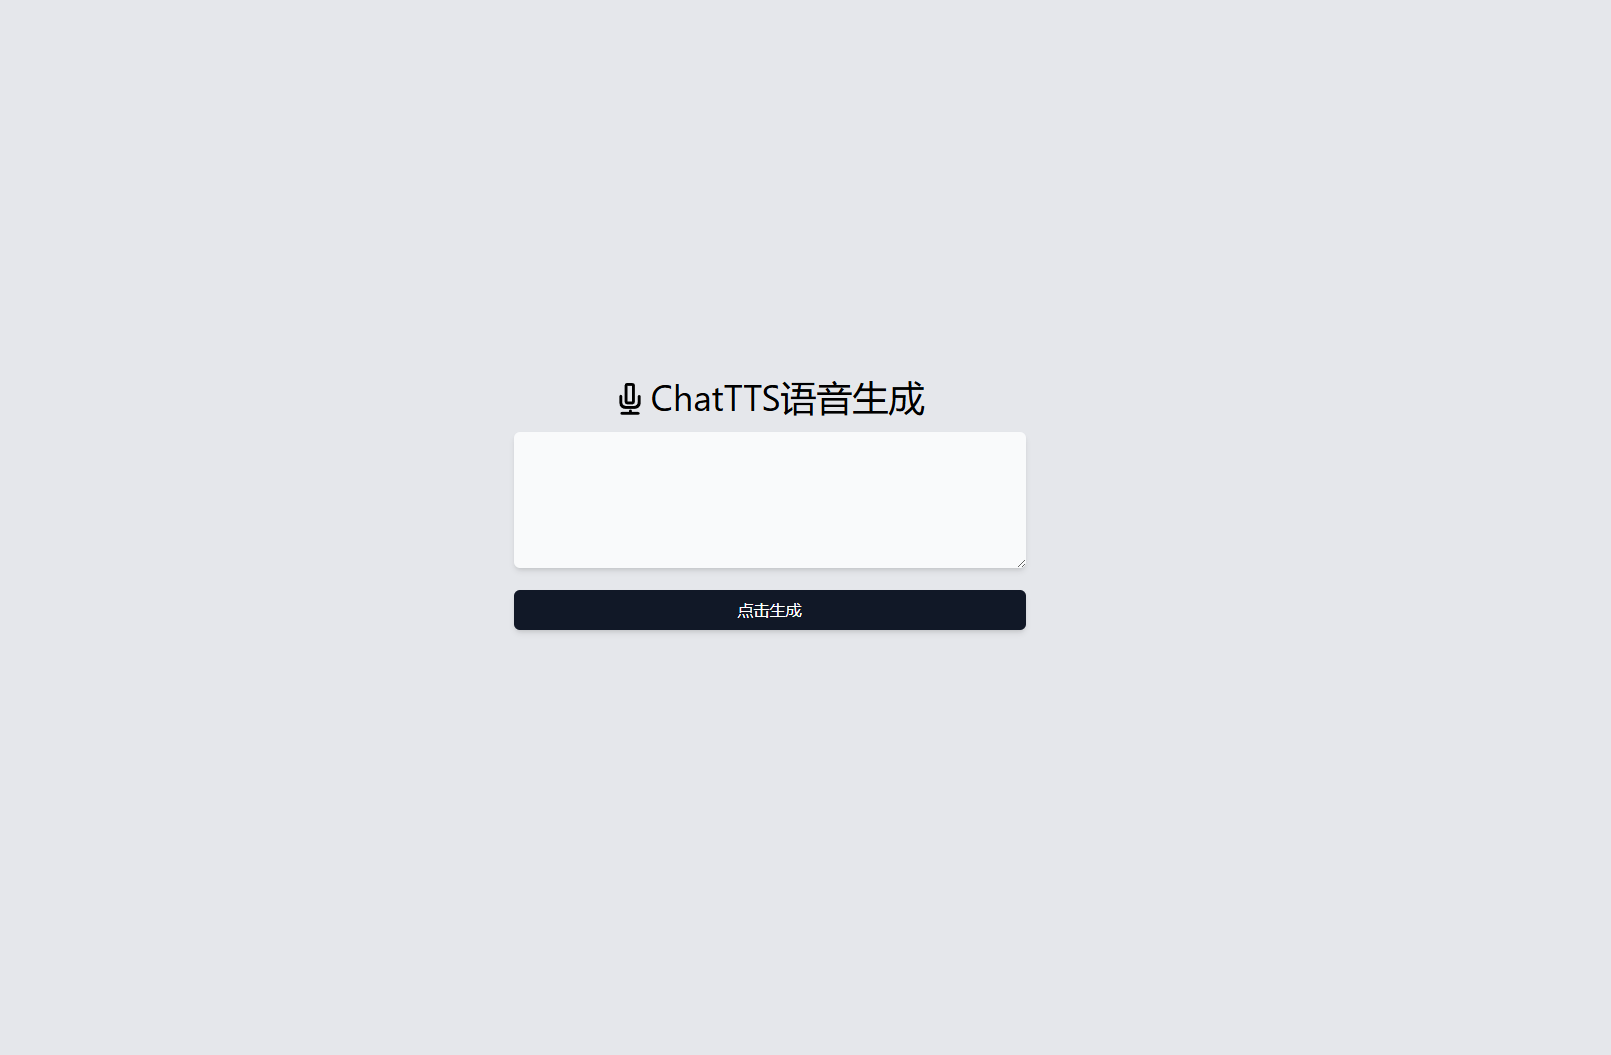
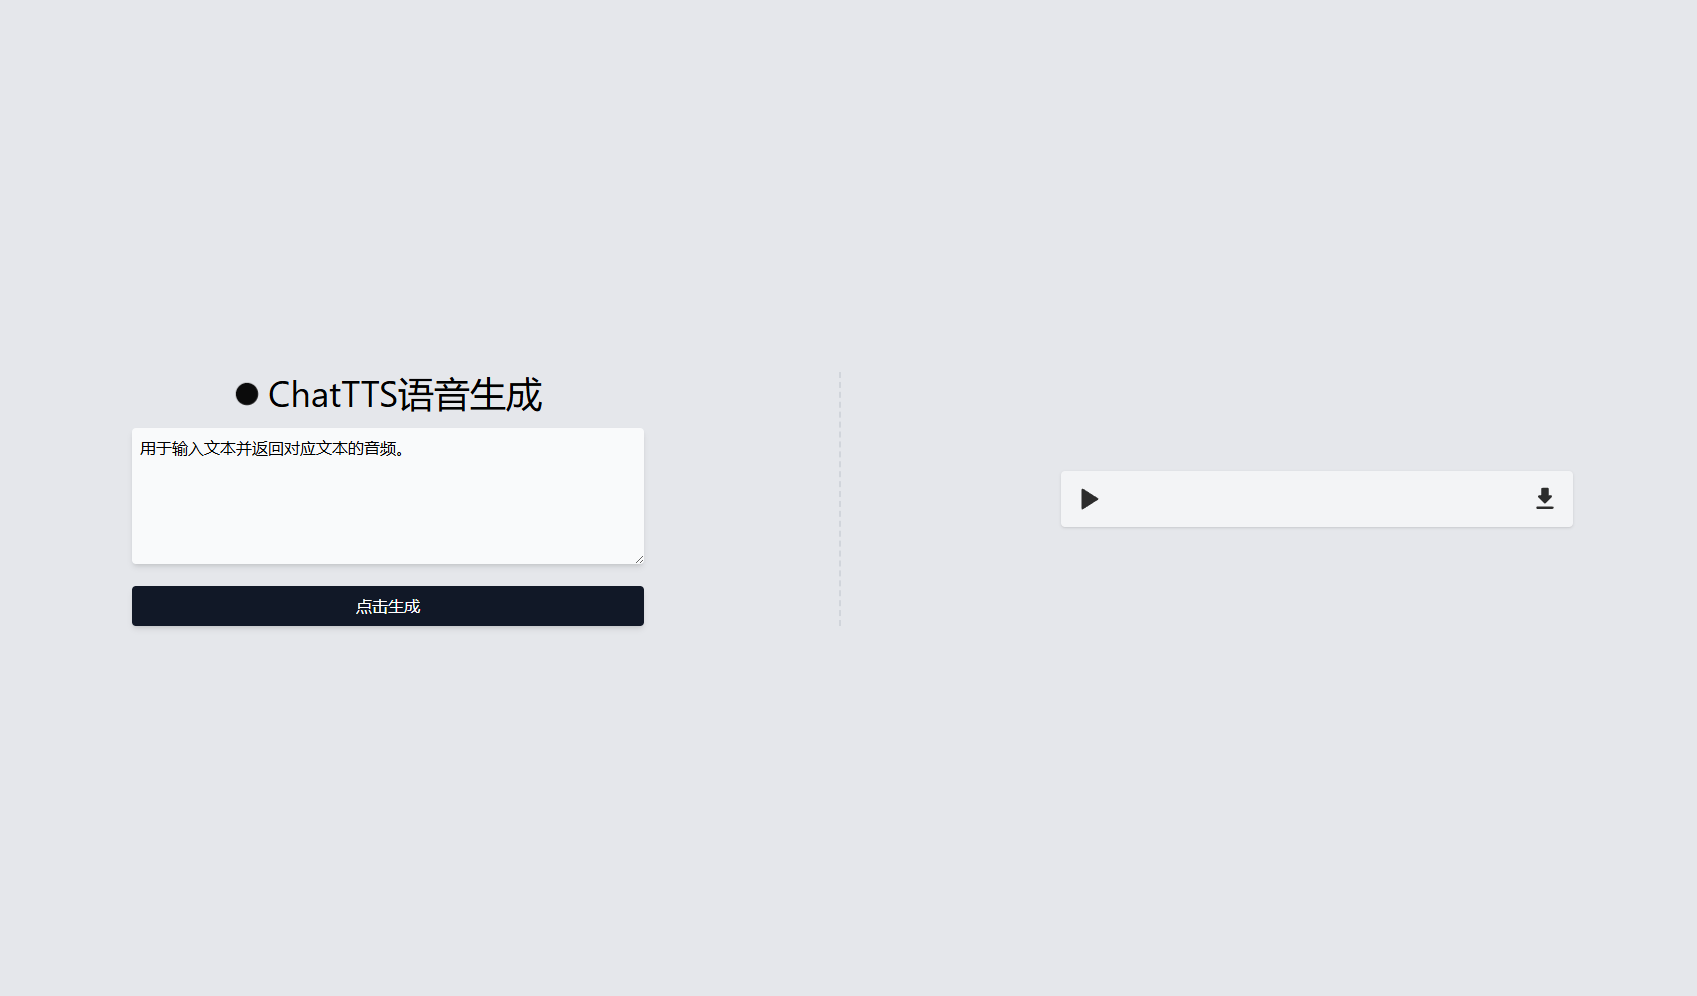
更新界面样式，添加音频组件。

diff --git a/src/components/TextToSpeech.vue b/src/components/TextToSpeech.vue
@@ -1,19 +1,20 @@
 <template>
-    <div class="flex flex-col lg:flex-row justify-start items-center lg:justify-center h-screen p-4 gap-6">
-        <div class=" flex-grow-0 flex flex-col items-center justify-center w-full gap-4 px-4"
+    <div class="flex flex-col lg:flex-row justify-between items-center lg:justify-center h-screen p-4 gap-6">
+        <div class="flex-grow-0 flex flex-col items-center justify-center w-full gap-4 px-4"
             :class="{ 'lg:border-r-2 lg:border-dashed lg:border-gray-300': !isLoading && audioUrl }">
             <h1 class="relative text-4xl flex flex-row items-center justify-center flex-wrap">
-                <svg t="1717244450571" class="mb-[-6px] mr-1" viewBox="0 0 1024 1024" version="1.1"
-                    xmlns="http://www.w3.org/2000/svg" p-id="8317" width="32" height="32">
+                <svg t="1717430346185" class="flashing mr-2 mb-[-3px]" viewBox="0 0 1024 1024" version="1.1"
+                    xmlns="http://www.w3.org/2000/svg" p-id="8066" width="26" height="26">
                     <path
-                        d="M577.641026 91.897436 577.641026 590.769231 433.230769 590.769231 433.230769 91.897436 577.641026 91.897436ZM341.333333 610.571054C341.333333 650.318585 373.656418 682.666667 413.474002 682.666667L597.397793 682.666667C637.229686 682.666667 669.538462 650.406676 669.538462 610.571054L669.538462 72.095613C669.538462 32.348081 637.215376 0 597.397793 0L413.474002 0C373.642109 0 341.333333 32.259991 341.333333 72.095613L341.333333 610.571054ZM760.62615 617.003113C760.348488 682.270116 707.346905 735.179487 641.89335 735.179487L380.794092 735.179487C315.497551 735.179487 262.564103 682.319623 262.564103 617.003113L262.564103 426.666667C262.564103 401.289886 241.992205 380.717949 216.615385 380.717949 191.238564 380.717949 170.666667 401.289886 170.666667 426.666667L170.666667 643.278494C170.666667 744.787561 253.012152 827.076923 354.506831 827.076923L669.493169 827.076923C771.025264 827.076923 853.333333 744.839562 853.333333 643.278494L853.333333 426.666667C853.333333 401.289886 832.761436 380.717949 807.384615 380.717949 782.007795 380.717949 761.435897 401.289886 761.435897 426.666667L760.62615 617.003113ZM479.179487 925.538462 249.360279 925.538462C224.016673 925.538462 203.487179 946.110398 203.487179 971.487179 203.487179 996.812314 224.025206 1017.435897 249.360279 1017.435897L774.639721 1017.435897C799.983327 1017.435897 820.512821 996.863961 820.512821 971.487179 820.512821 946.162045 799.974794 925.538462 774.639721 925.538462L571.076923 925.538462 571.076923 892.685325C571.076923 867.282051 550.505026 846.769231 525.128205 846.769231 499.80311 846.769231 479.179487 867.326569 479.179487 892.685325L479.179487 925.538462Z"
-                        fill="#000" p-id="8318"></path>
+                        d="M950.848 512q0 119.424-58.848 220.288t-159.712 159.712-220.288 58.848-220.288-58.848-159.712-159.712-58.848-220.288 58.848-220.288 159.712-159.712 220.288-58.848 220.288 58.848 159.712 159.712 58.848 220.288z"
+                        p-id="8067" fill="#0a0a0a"></path>
                 </svg>
                 ChatTTS语音生成
             </h1>
             <div class="relative w-full max-w-lg">
                 <textarea v-model="text"
-                    class="relative w-full h-full p-2 border-0 outline-none rounded-md shadow-md focus:ring-4 focus:ring-gray-100"
+                    class="relative w-full h-full p-2 border-0 outline-none rounded shadow-md min-h-10 max-h-[50vh] focus:ring-4 focus:ring-gray-100"
+                    placeholder="输入你要转换的文本"
                     rows="5"
                     :class="{ 'text-gray-500 loader-stripes cursor-not-allowed': isLoading, 'bg-gray-50 focus:bg-white': !isLoading }"
                     :disabled="isLoading">
@@ -21,7 +22,7 @@
             </div>
 
             <div @click="convertTextToSpeech"
-                class="flex items-center justify-center bg-gray-900 hover:bg-gray-800 text-white px-2 py-1 h-10 rounded-md shadow-md w-full max-w-lg"
+                class="flex items-center justify-center bg-gray-900 hover:bg-gray-800 text-white px-2 py-1 h-10 rounded shadow-md w-full max-w-lg select-none"
                 :class="{ 'cursor-not-allowed': isLoading, 'cursor-pointer': !isLoading }" :disabled="isLoading">
                 <div v-if="isLoading" key="loading" class="flex items-center justify-center">
                     <div
@@ -32,14 +33,10 @@
             </div>
             <div v-if="errorMessage" class="text-red-500">{{ errorMessage }}</div>
         </div>
-        <div v-if="!isLoading && audioUrl" class="w-full min-w-[20vw]">
+        <div v-if="!isLoading && audioUrl" class="w-full gap-4 px-4">
             <transition name="fade" mode="out-in">
                 <div key="audio" class="flex flex-col w-full items-center justify-center">
-                    <audio ref="audio" class="w-full max-w-lg" controls :src="audioUrl"></audio>
-                    <div @click="reset"
-                        class="flex items-center justify-center cursor-pointer bg-red-700 hover:bg-red-700/90 text-white p-2 rounded-md shadow-md mt-4 h-10 max-w-lg w-full">
-                        重新生成?
-                    </div>
+                    <AudioPlayer :audioUrl="audioUrl" />
                 </div>
             </transition>
         </div>
@@ -48,11 +45,37 @@
 
 <script lang="ts" setup>
 import { ref } from 'vue'
+import AudioPlayer from './AudioPlayer.vue'
 
 const text = ref('')
 const audioUrl = ref<string | null>(null)
 const isLoading = ref(false)
 const errorMessage = ref<string | null>(null)
+
+interface Conversion {
+    target: string;
+    replacement: string;
+}
+
+const escapeRegExp = (string: string): string => {
+    return string.replace(/[.*+?^${}()|[\]\\]/g, '\\$&');
+}
+
+const convertTextFormat = (text: string): string => {
+    const conversions: Conversion[] = [
+        { target: '，', replacement: ' [uv_break] ' },
+        { target: '。', replacement: ' [uv_break] ' },
+        { target: '+', replacement: ' [uv_break] ' },
+    ];
+
+    let convertedText = text;
+    conversions.forEach(conversion => {
+        const regex = new RegExp(escapeRegExp(conversion.target), 'g');
+        convertedText = convertedText.replace(regex, conversion.replacement);
+    });
+
+    return convertedText;
+}
 
 const convertTextToSpeech = async () => {
     if (!text.value || isLoading.value) return
@@ -70,7 +93,7 @@ const convertTextToSpeech = async () => {
             headers: {
                 'Content-Type': 'application/json',
             },
-            body: JSON.stringify({ text: text.value }),
+            body: JSON.stringify({ text: convertTextFormat(text.value) }),
         });
 
         if (!response.ok) {
@@ -90,11 +113,6 @@ const convertTextToSpeech = async () => {
     } finally {
         isLoading.value = false
     }
-}
-
-const reset = () => {
-    audioUrl.value = null;
-    convertTextToSpeech();
 }
 </script>
 
@@ -131,5 +149,21 @@ const reset = () => {
 .fade-enter,
 .fade-leave-to {
     opacity: 0;
+}
+
+.flashing {
+    animation: flash 2s infinite;
+}
+
+@keyframes flash {
+
+    0%,
+    100% {
+        opacity: 1;
+    }
+
+    10% {
+        opacity: 0;
+    }
 }
 </style>

diff --git a/src/components/AudioPlayer.vue b/src/components/AudioPlayer.vue
@@ -1,0 +1,53 @@
+<template>
+  <div class="w-full max-w-lg mx-auto">
+    <div class="flex items-center justify-between p-2 bg-gray-100 rounded shadow">
+      <button @click="togglePlay" class="flex justify-center items-center w-10 h-10">
+        <svg v-if="!isPlaying" t="1717430100452" class="icon" viewBox="0 0 1024 1024" version="1.1"
+          xmlns="http://www.w3.org/2000/svg" p-id="4278" width="30" height="30">
+          <path
+            d="M817.088 484.96l-512-323.744C295.232 154.976 282.752 154.592 272.576 160.224 262.336 165.856 256 176.608 256 188.256l0 647.328c0 11.648 6.336 22.4 16.576 28.032 4.8 2.656 10.112 3.968 15.424 3.968 5.952 0 11.904-1.664 17.088-4.928l512-323.616C826.368 533.184 832 522.976 832 512 832 501.024 826.368 490.816 817.088 484.96z"
+            fill="#2c2c2c" p-id="4279"></path>
+        </svg>
+        <svg v-else t="1717430144465" class="icon" viewBox="0 0 1024 1024" version="1.1"
+          xmlns="http://www.w3.org/2000/svg" p-id="5500" width="40" height="40">
+          <path d="M688 288H336a48 48 0 0 0-48 48v352a48 48 0 0 0 48 48h352a48 48 0 0 0 48-48V336a48 48 0 0 0-48-48z"
+            fill="#2c2c2c" p-id="5501"></path>
+        </svg>
+      </button>
+      <a :href="audioUrl" download class="flex justify-center items-center w-10 h-10">
+        <svg t="1717430305832" class="icon" viewBox="0 0 1024 1024" version="1.1" xmlns="http://www.w3.org/2000/svg"
+          p-id="6997" width="30" height="30">
+          <path
+            d="M707.84 384H640V170.666667c0-23.466667-19.2-42.666667-42.666667-42.666667h-170.666666c-23.466667 0-42.666667 19.2-42.666667 42.666667v213.333333H316.16c-37.973333 0-57.173333 46.08-30.293333 72.96l195.84 195.84c16.64 16.64 43.52 16.64 60.16 0l195.84-195.84c26.88-26.88 8.106667-72.96-29.866667-72.96zM213.333333 810.666667c0 23.466667 19.2 42.666667 42.666667 42.666666h512c23.466667 0 42.666667-19.2 42.666667-42.666666s-19.2-42.666667-42.666667-42.666667H256c-23.466667 0-42.666667 19.2-42.666667 42.666667z"
+            fill="#2c2c2c" p-id="6998"></path>
+        </svg>
+      </a>
+    </div>
+    <audio ref="audio" :src="audioUrl" @ended="isPlaying = false" class="hidden"></audio>
+  </div>
+</template>
+
+<script lang="ts" setup>
+import { ref } from 'vue'
+
+defineProps({
+  audioUrl: {
+    type: String,
+    required: true
+  }
+})
+
+const audio = ref<HTMLAudioElement | null>(null)
+const isPlaying = ref(false)
+
+const togglePlay = () => {
+  if (audio.value) {
+    if (isPlaying.value) {
+      audio.value.pause()
+    } else {
+      audio.value.play()
+    }
+    isPlaying.value = !isPlaying.value
+  }
+}
+</script>

diff --git a/src/components/Github.vue b/src/components/Github.vue
@@ -1,0 +1,12 @@
+<template>
+    <div class="fixed top-0 right-0 m-2">
+        <a href="https://github.com/PluginsKers/vite-tts-audio-web" target="_blank" rel="noopener noreferrer">
+            <svg t="1717428377751" class="icon" viewBox="0 0 1024 1024" version="1.1" xmlns="http://www.w3.org/2000/svg"
+                p-id="4255" width="36" height="36">
+                <path
+                    d="M850.346667 155.008a42.666667 42.666667 0 0 0-22.741334-23.509333c-8.704-3.754667-85.717333-33.322667-200.32 39.168H396.714667c-114.773333-72.618667-191.701333-42.922667-200.32-39.168a42.88 42.88 0 0 0-22.741334 23.466666c-26.197333 66.218667-18.048 136.448-7.850666 176.896C134.272 374.016 128 413.098667 128 469.333333c0 177.877333 127.104 227.882667 226.730667 246.272a189.568 189.568 0 0 0-13.013334 46.549334A44.373333 44.373333 0 0 0 341.333333 768v38.613333c-19.498667-4.138667-41.002667-11.946667-55.168-26.112C238.08 732.416 188.330667 682.666667 128 682.666667v85.333333c25.002667 0 65.365333 40.362667 97.834667 72.832 51.029333 51.029333 129.066667 55.253333 153.386666 55.253333 3.114667 0 5.376-0.085333 6.528-0.128A42.666667 42.666667 0 0 0 426.666667 853.333333v-82.090666c4.266667-24.746667 20.224-49.621333 27.946666-56.362667a42.666667 42.666667 0 0 0-23.125333-74.581333C293.333333 624.554667 213.333333 591.488 213.333333 469.333333c0-53.12 5.632-70.741333 31.573334-99.285333 11.008-12.117333 14.08-29.568 7.978666-44.8-4.821333-11.904-18.773333-65.450667-6.485333-117.546667 20.650667-1.578667 59.904 4.565333 113.706667 40.96C367.104 253.44 375.466667 256 384 256h256a42.666667 42.666667 0 0 0 23.936-7.338667c54.016-36.522667 92.970667-41.770667 113.664-41.130666 12.330667 52.224-1.578667 105.770667-6.4 117.674666a42.666667 42.666667 0 0 0 8.021333 44.928C805.077333 398.464 810.666667 416.085333 810.666667 469.333333c0 122.581333-79.957333 155.52-218.069334 170.922667a42.666667 42.666667 0 0 0-23.125333 74.709333c19.797333 17.066667 27.861333 32.469333 27.861333 53.034667v128h85.333334v-128c0-20.437333-3.925333-38.101333-9.770667-53.12C769.92 695.765333 896 643.712 896 469.333333c0-56.362667-6.272-95.530667-37.76-137.514666 10.197333-40.405333 18.261333-110.506667-7.893333-176.810667z"
+                    fill="#2c2c2c" p-id="4256"></path>
+            </svg>
+        </a>
+    </div>
+</template>

diff --git a/src/App.vue b/src/App.vue
@@ -1,15 +1,18 @@
 <template>
+  <GithubIcon />
   <TextToSpeech class="bg-gray-200" />
 </template>
 
 <script lang="ts">
-import { defineComponent } from 'vue'
-import TextToSpeech from './components/TextToSpeech.vue'
+import { defineComponent } from 'vue';
+import TextToSpeech from './components/TextToSpeech.vue';
+import GithubIcon from './components/Github.vue';
 
 export default defineComponent({
   name: 'App',
   components: {
-    TextToSpeech
+    TextToSpeech,
+    GithubIcon
   }
 })
 </script>

diff --git a/index.html b/index.html
@@ -2,7 +2,7 @@
 <html lang="en">
   <head>
     <meta charset="UTF-8" />
-    <link rel="icon" type="image/svg+xml" href="/src/assets/microphone.svg" />
+    <link rel="icon" type="image/svg+xml" href="/src/assets/circle.svg" />
     <meta name="viewport" content="width=device-width, initial-scale=1.0" />
     <title>ChatTTS语音生成</title>
   </head>

diff --git a/vite.config.ts b/vite.config.ts
@@ -6,5 +6,6 @@ dotenv.config()
 
 // https://vitejs.dev/config/
 export default defineConfig({
+  base: "/app/tts",
   plugins: [vue()],
 })
